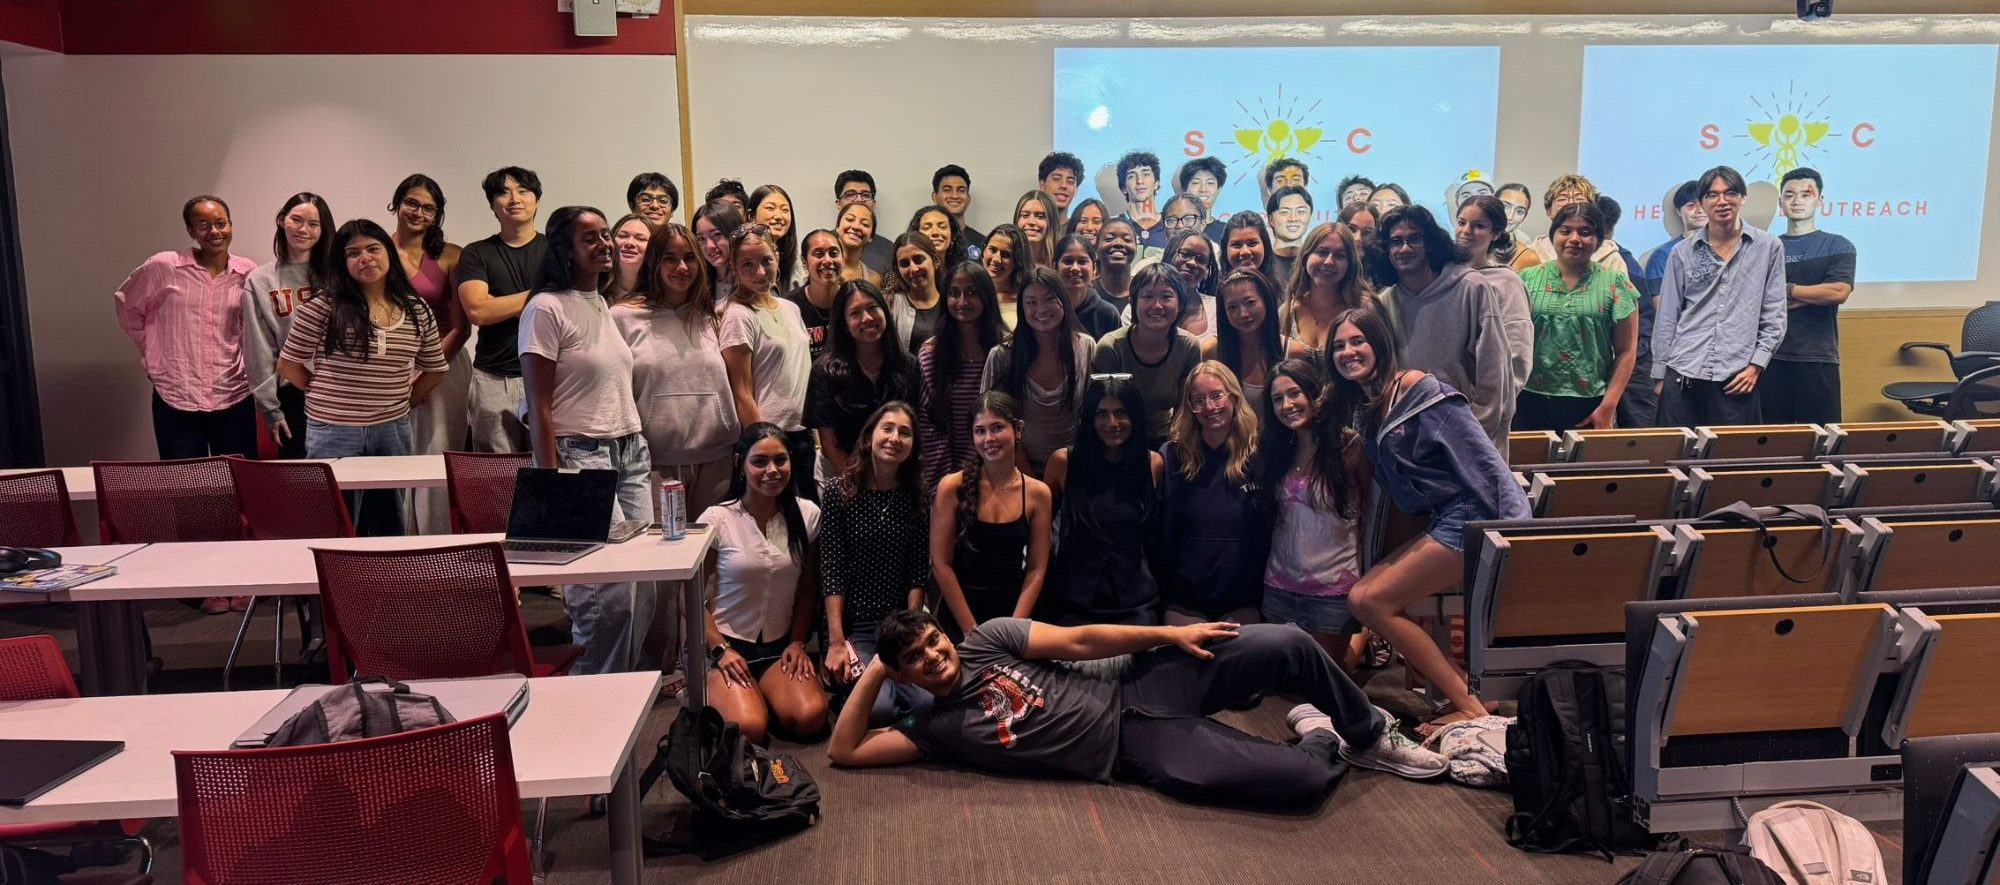
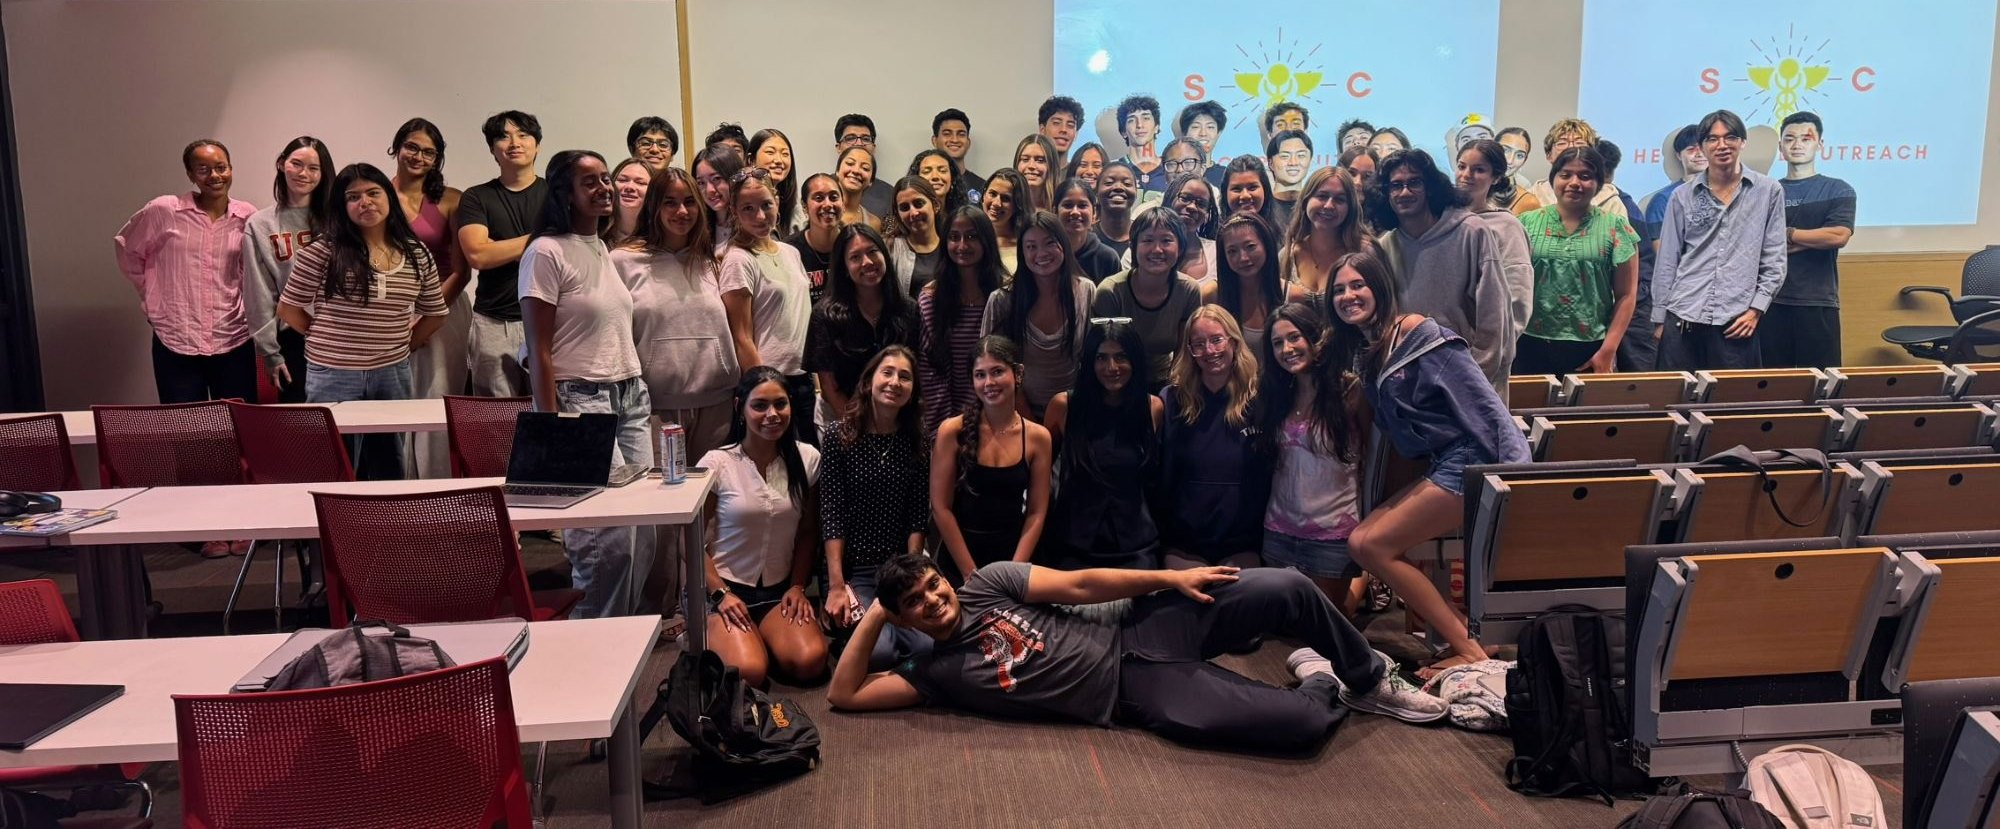
Put hero title on the group photo's whiteboard
Crop the photo to start at the whiteboard and overlay the org name there
(Southern California in the Accessible gold, Healthcare Outreach in
cardinal). On phones the title sits just above the photo.

Claude-Session: https://claude.ai/code/session_01TVJzb8w4XbYUbBnRYd9UFE

diff --git a/index.html b/index.html
@@ -544,9 +544,12 @@
   .hero-name-fit{ display:inline-block; }
   .hero-name-fit > span:first-child{ color:#B8860B; }
   @media (max-width: 760px){ .hero-name{ white-space:normal; font-size:clamp(1.5rem, 7.4vw, 2.6rem); } .hero-name-fit > span{ display:block; white-space:nowrap; } }
-  .hero-photo{ position:relative; border-radius:clamp(14px, 1.6vw, 22px); overflow:hidden; aspect-ratio:2000 / 885; background:var(--ink); }
+  .hero-photo{ position:relative; border-radius:clamp(14px, 1.6vw, 22px); overflow:hidden; aspect-ratio:2000 / 829; background:var(--ink); }
   .hero-photo img{ display:block; width:100%; height:100%; object-fit:cover; object-position:center top; }
   .hero-photo::after{ content:""; position:absolute; inset:0; background:linear-gradient(to top, rgba(20,10,10,.78) 0%, rgba(20,10,10,.35) 38%, rgba(20,10,10,0) 62%); pointer-events:none; }
+  .hero-photo .hero-name{ position:absolute; top:clamp(6px, .9vw, 14px); left:clamp(18px, 3vw, 44px); right:clamp(18px, 3vw, 44px); z-index:2; margin:0; color:var(--cardinal); text-shadow:none; }
+  @media (max-width: 760px){ .hero-photo .hero-name{ position:static; margin:0 0 14px; } .hero-photo{ overflow:visible; background:none; } .hero-photo img, .hero-photo::after{ border-radius:inherit; } }
+  .hero-photo .hero-name-fit > span:first-child{ color:#FFC93C; }
   .hero-photo-text{ position:absolute; left:0; right:0; bottom:0; z-index:1; padding:clamp(18px, 3vw, 44px); color:#fff; }
   .hero-stack .hero-photo h1{ font-size:clamp(1.9rem, 3.5vw, 3.6rem); white-space:normal; color:#fff; margin:0; text-shadow:0 2px 18px rgba(0,0,0,.35); }
   .hero-stack .hero-photo h1 em{ color:#FFC93C; }
@@ -638,9 +641,9 @@
   <div class="page active" data-route="home" id="page-home">
     <section class="hero hero-stack">
       <div class="hero-panel">
-      <p class="hero-name" aria-label="Southern California Healthcare Outreach"><span class="hero-name-fit"><span>Southern California</span> <span>Healthcare Outreach</span></span></p>
       <div class="hero-photo">
-        <img src="images/hero-group.jpg" alt="SCHO members together at a general meeting" width="2000" height="885" fetchpriority="high">
+        <p class="hero-name" aria-label="Southern California Healthcare Outreach"><span class="hero-name-fit"><span>Southern California</span> <span>Healthcare Outreach</span></span></p>
+        <img src="images/hero-group.jpg" alt="SCHO members together at a general meeting" width="2000" height="829" fetchpriority="high">
         <div class="hero-photo-text">
           <h1>Making healthcare <em>accessible</em> for everyone</h1>
           <p class="hero-est">Established 2019 @ USC</p>
